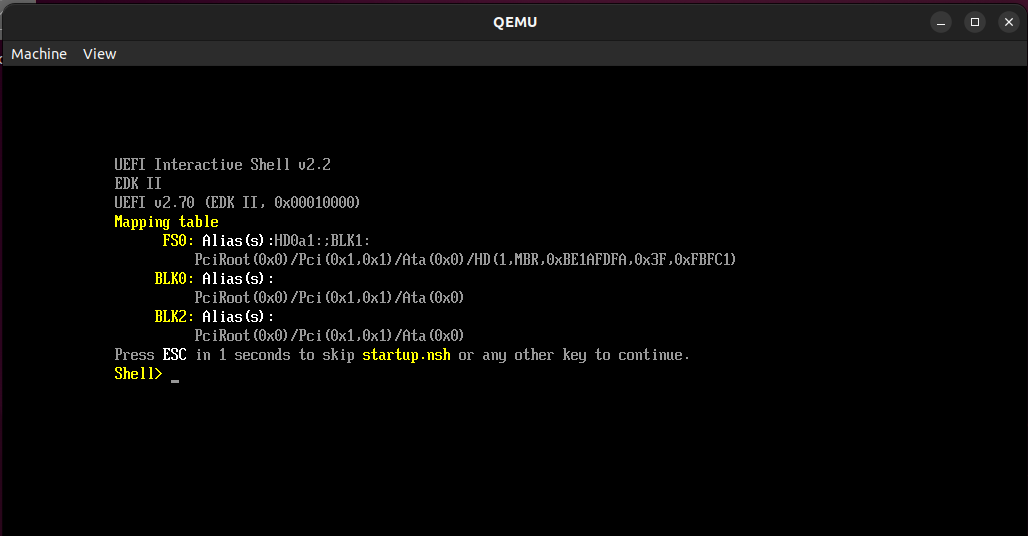
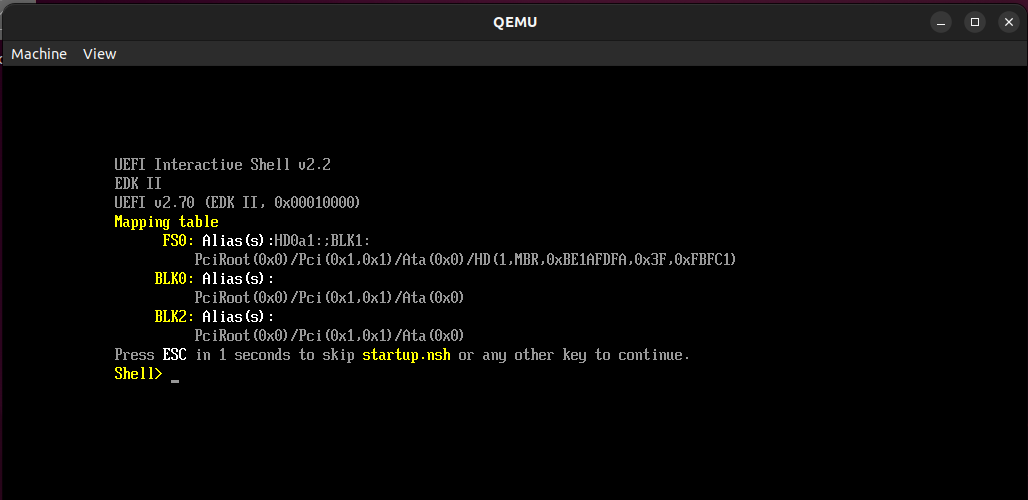
Finish documentation

diff --git a/README.md b/README.md
@@ -111,45 +111,64 @@ Source: [_L_C_01_Platform_Build_Linux_Ovmf_Lab.pdf](https://github.com/tianocore
 
     The UEFI shell should appear in QEMU
 
-    <img src="screenshots/qemu-works.png" width="500"/>
+    <img src="screenshots/qemu-works.png" width="700"/>
 
-## Build the game
+## Build and run the game
 
-Make folders and copy files from my repository:
+1. Make folders and copy files from my repository:
 
-    cd ~/edk2-ws/edk2
-    mkdir Platformer
-    cd Platformer
-    mkdir MyPkg
-    cd MyPkg
-    cp ~/UEFI_Platformer/src/MyPkg.dec .
-    mkdir Platformer
-    cd Platformer
-    cp ~/UEFI_Platformer/src/Platformer.c .
-    cp ~/UEFI_Platformer/src/Platformer.inf .
+        cd ~/edk2-ws/edk2
+        mkdir Platformer
+        cd Platformer
+        mkdir MyPkg
+        cd MyPkg
+        cp ~/UEFI_Platformer/src/MyPkg.dec .
+        mkdir Platformer
+        cd Platformer
+        cp ~/UEFI_Platformer/src/Platformer.c .
+        cp ~/UEFI_Platformer/src/Platformer.inf .
 
-Open OvmfPkgX64.dsc
+2. Open OvmfPkgX64.dsc
 
-    vim OvmfPkg/OvmfPkgX64.dsc 
+        cd ~/edk2-ws/edk2
+        vim OvmfPkg/OvmfPkgX64.dsc 
 
-Link the game by adding
+3. Link the game by adding the line
     
-    # Add new modules here
-      Platformer/MyPkg/Platformer/Platformer.inf
+        Platformer/MyPkg/Platformer/Platformer.inf
 
-to the end of the opened file. Remember to add two spaces before the second line.
+    to the end of the opened file. Remember to add two spaces before this line.
 
-Save and exit vim.
+4. Save and exit vim.
 
-Copy the "run" script
+5. Copy the "run" script
 
-    cp ~/UEFI_Platformer/src/run .
-    chmod +x run
+        cp ~/UEFI_Platformer/src/run .
+        chmod +x run
 
-Build and run the game with this script
+6. Copy the game assets
 
-    ./run
+        cp -r ~/UEFI_Platformer/images ~/run-ovmf/hda-contents
+        cp -r ~/UEFI_Platformer/levels ~/run-ovmf/hda-contents
 
+7. Build and run the game with this script
+
+        ./run
+
+8. Inside QEMU enter the filesystem
+
+        fs0:
+        ls
+
+    Ls command should return these files:
+
+    <img src="screenshots/qemu-check.png" width="700"/>
+
+9. Run the game
+
+        Platformer.efi
+
+10. Have fun!
 
 ## Running on real hardware
 
